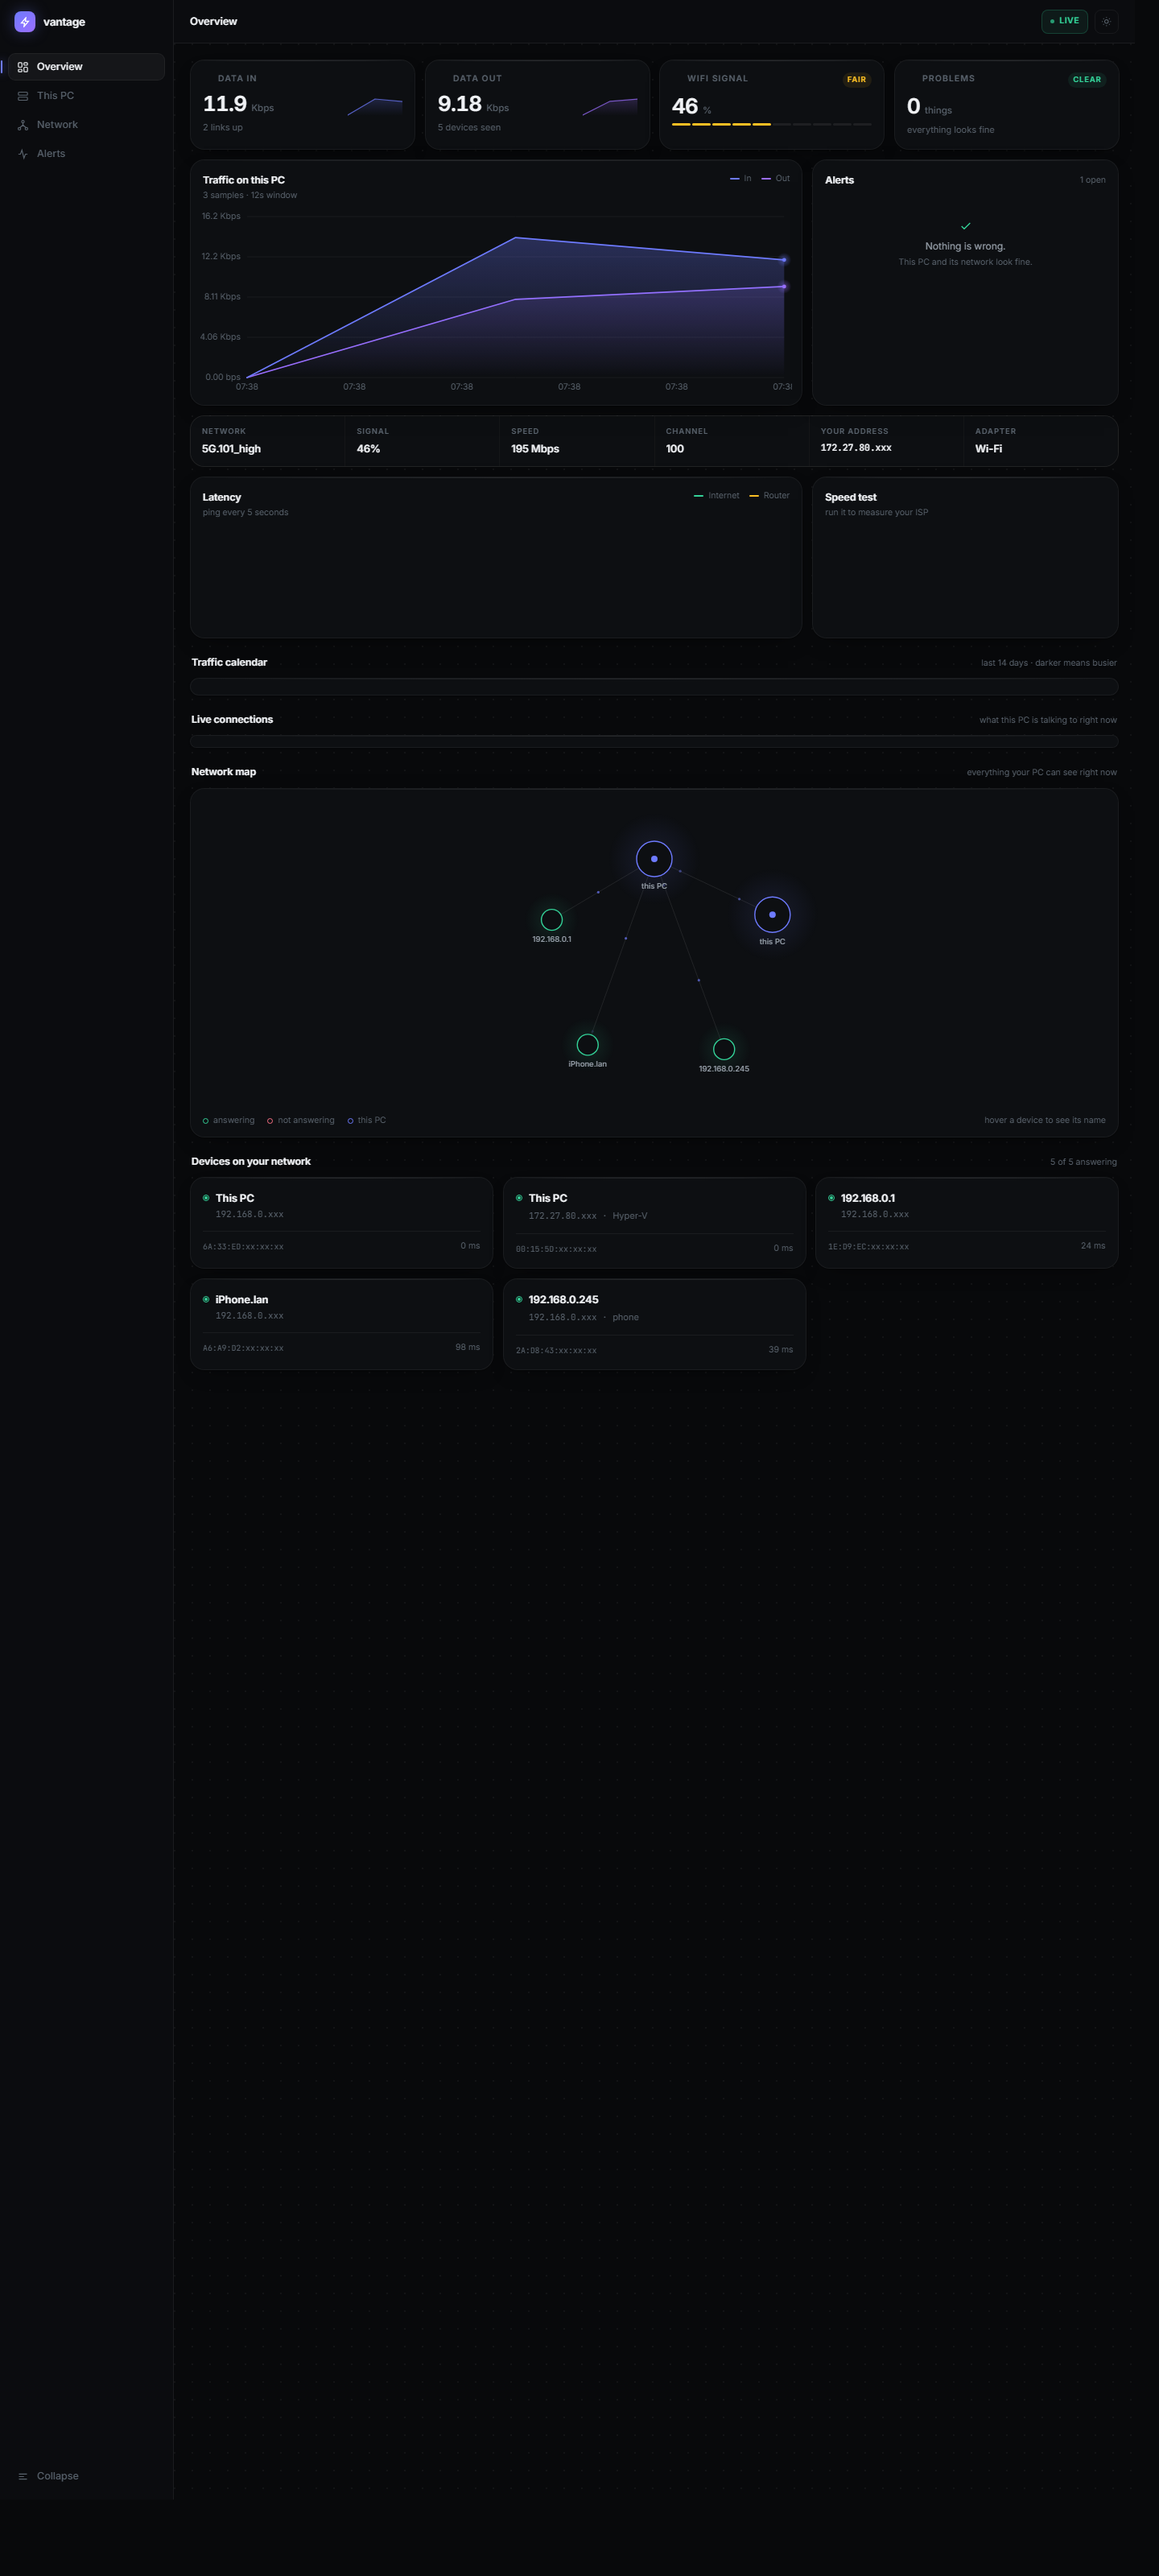
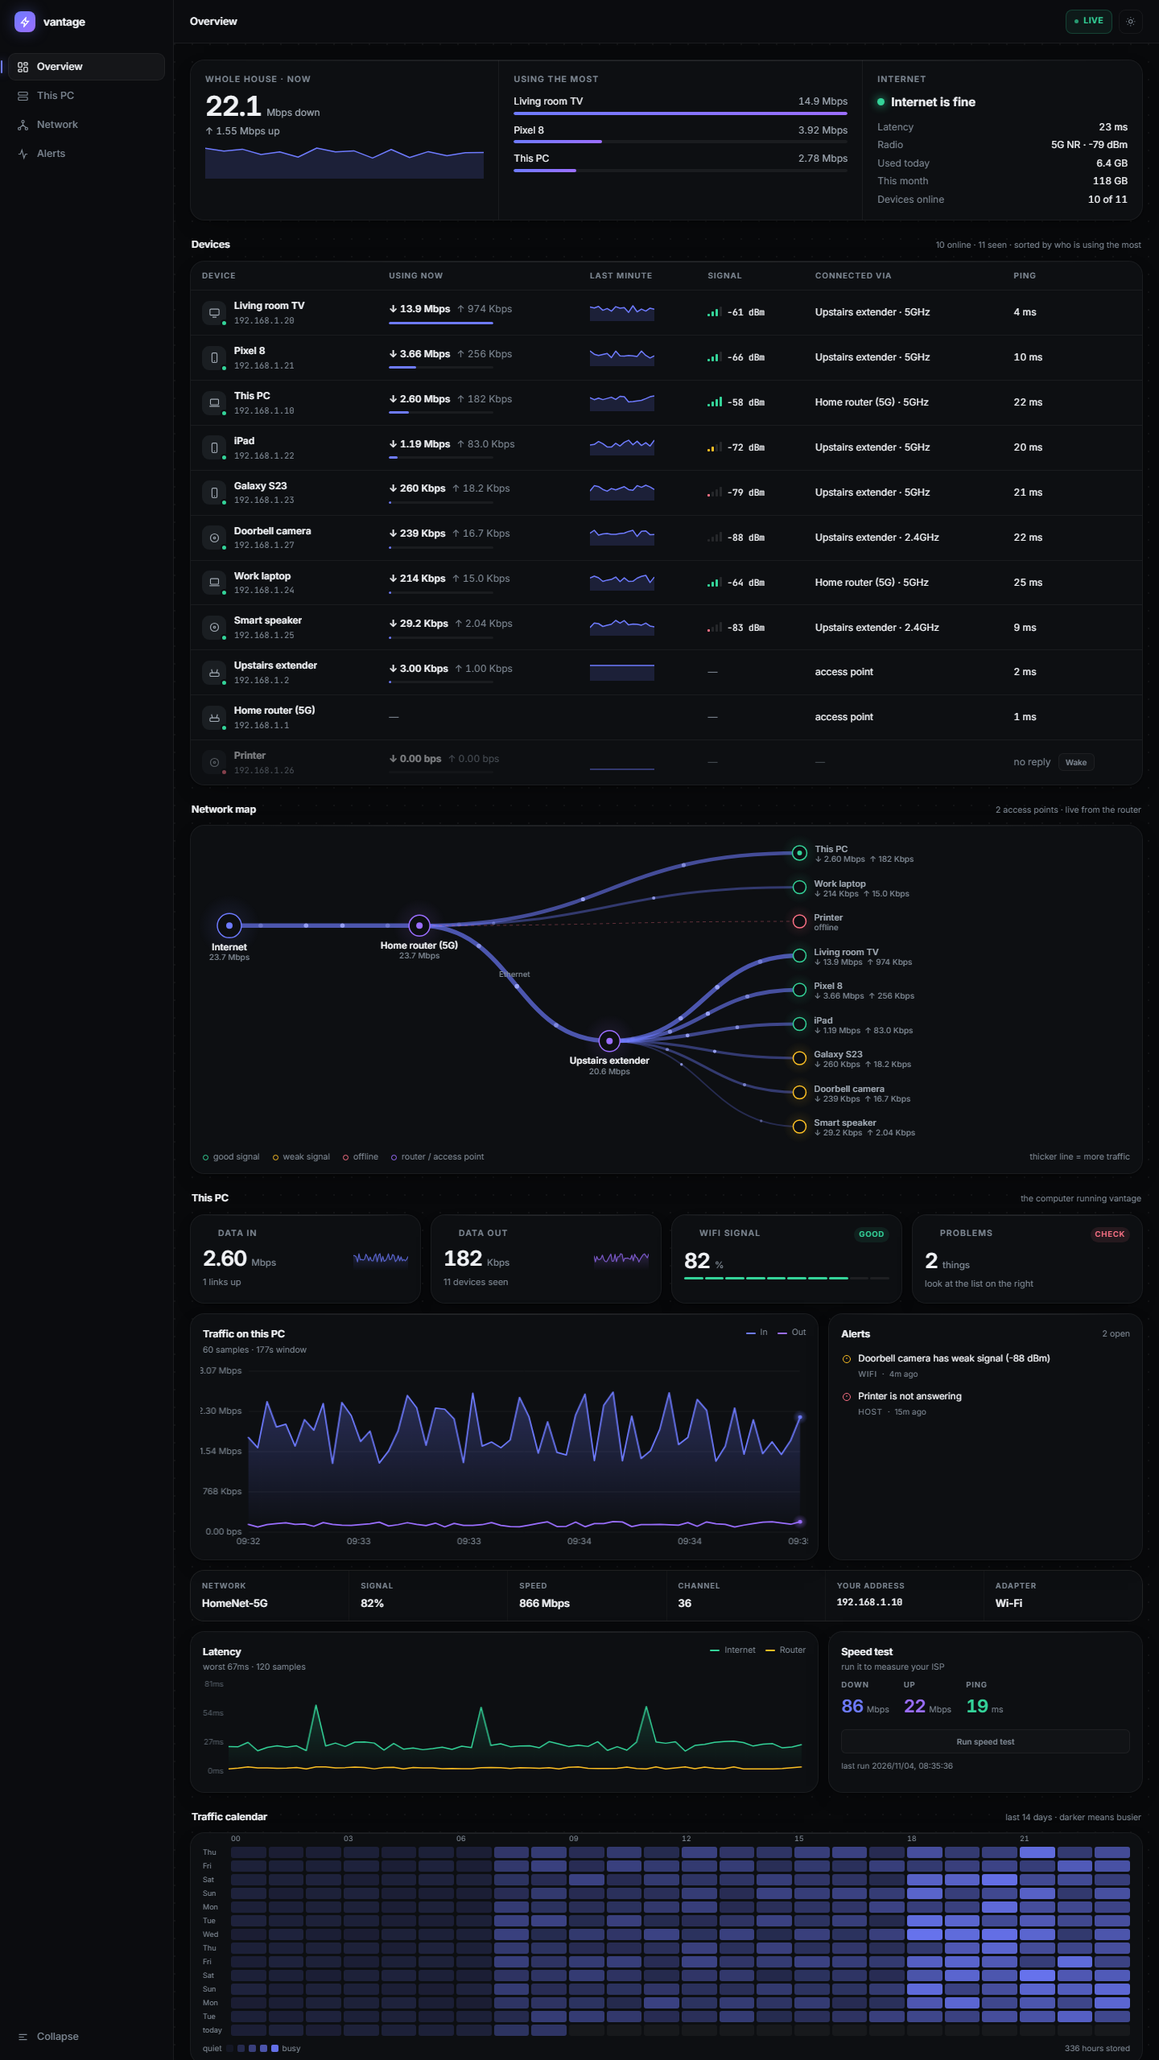
docs: new dashboard screenshot; fix traffic calendar grid
Screenshot is rendered from sample data (no real names, IPs or MACs).
Calendar hour labels now span 3 columns each, so rows line up, and
cells have a fixed height instead of growing with screen width.
README lists the per-device router data.

diff --git a/public/index.html b/public/index.html
@@ -257,9 +257,10 @@ svg.dspark{display:block;width:80px;height:20px}
 
 /* heatmap */
 .heat-grid{display:grid;grid-template-columns:32px repeat(24,1fr);gap:3px;padding:0 15px 8px}
-.heat-hour{font-size:8px;color:var(--text-3);text-align:center;font-variant-numeric:tabular-nums}
+/* one label every 3 hours, so each spans 3 of the 24 hour columns */
+.heat-hour{grid-column:span 3;font-size:9px;color:var(--text-3);font-variant-numeric:tabular-nums}
 .heat-day{font-size:9px;color:var(--text-3);display:flex;align-items:center}
-.heat-cell{aspect-ratio:1;border-radius:3px;background:rgba(255,255,255,.045);transition:transform .15s var(--ease-out),background .2s}
+.heat-cell{height:14px;border-radius:3px;background:rgba(255,255,255,.045);transition:transform .15s var(--ease-out),background .2s}
 [data-theme="light"] .heat-cell{background:rgba(9,12,18,.05)}
 .heat-cell:hover{transform:scale(1.4);z-index:2}
 .heat-key{display:flex;align-items:center;gap:5px;padding:0 15px 12px;font-size:10px;color:var(--text-3)}

diff --git a/README.md b/README.md
@@ -6,6 +6,8 @@ Reads real interface counters, discovers every device on the LAN, tracks latency
 
 ![overview](docs/overview.png)
 
+*Screenshot uses sample data. No real device names, IPs or MACs.*
+
 ---
 
 ## Why this exists
@@ -29,6 +31,7 @@ The third one required reverse-engineering a locked vendor router API. That is t
 | LAN devices | IP, MAC, vendor (OUI), reachability, RTT | ARP + broadcast sweep + ICMP |
 | Live connections | Remote host, port, owning process | `Get-NetTCPConnection` |
 | Router (whole house) | Total data used today and this month, signal, radio | Reverse-engineered ubus API |
+| Router (every device) | Live upload/download per device, name, which mesh node and band, WiFi signal (dBm) | `net.info`, `web_api.get_routers`, `get_topology` over ubus |
 | History | 30 days of samples, latency, speed tests | SQLite, zero dependencies |
 | Alerts | Offline devices, weak WiFi, hot links | Toast + rules in `config.json` |
 
